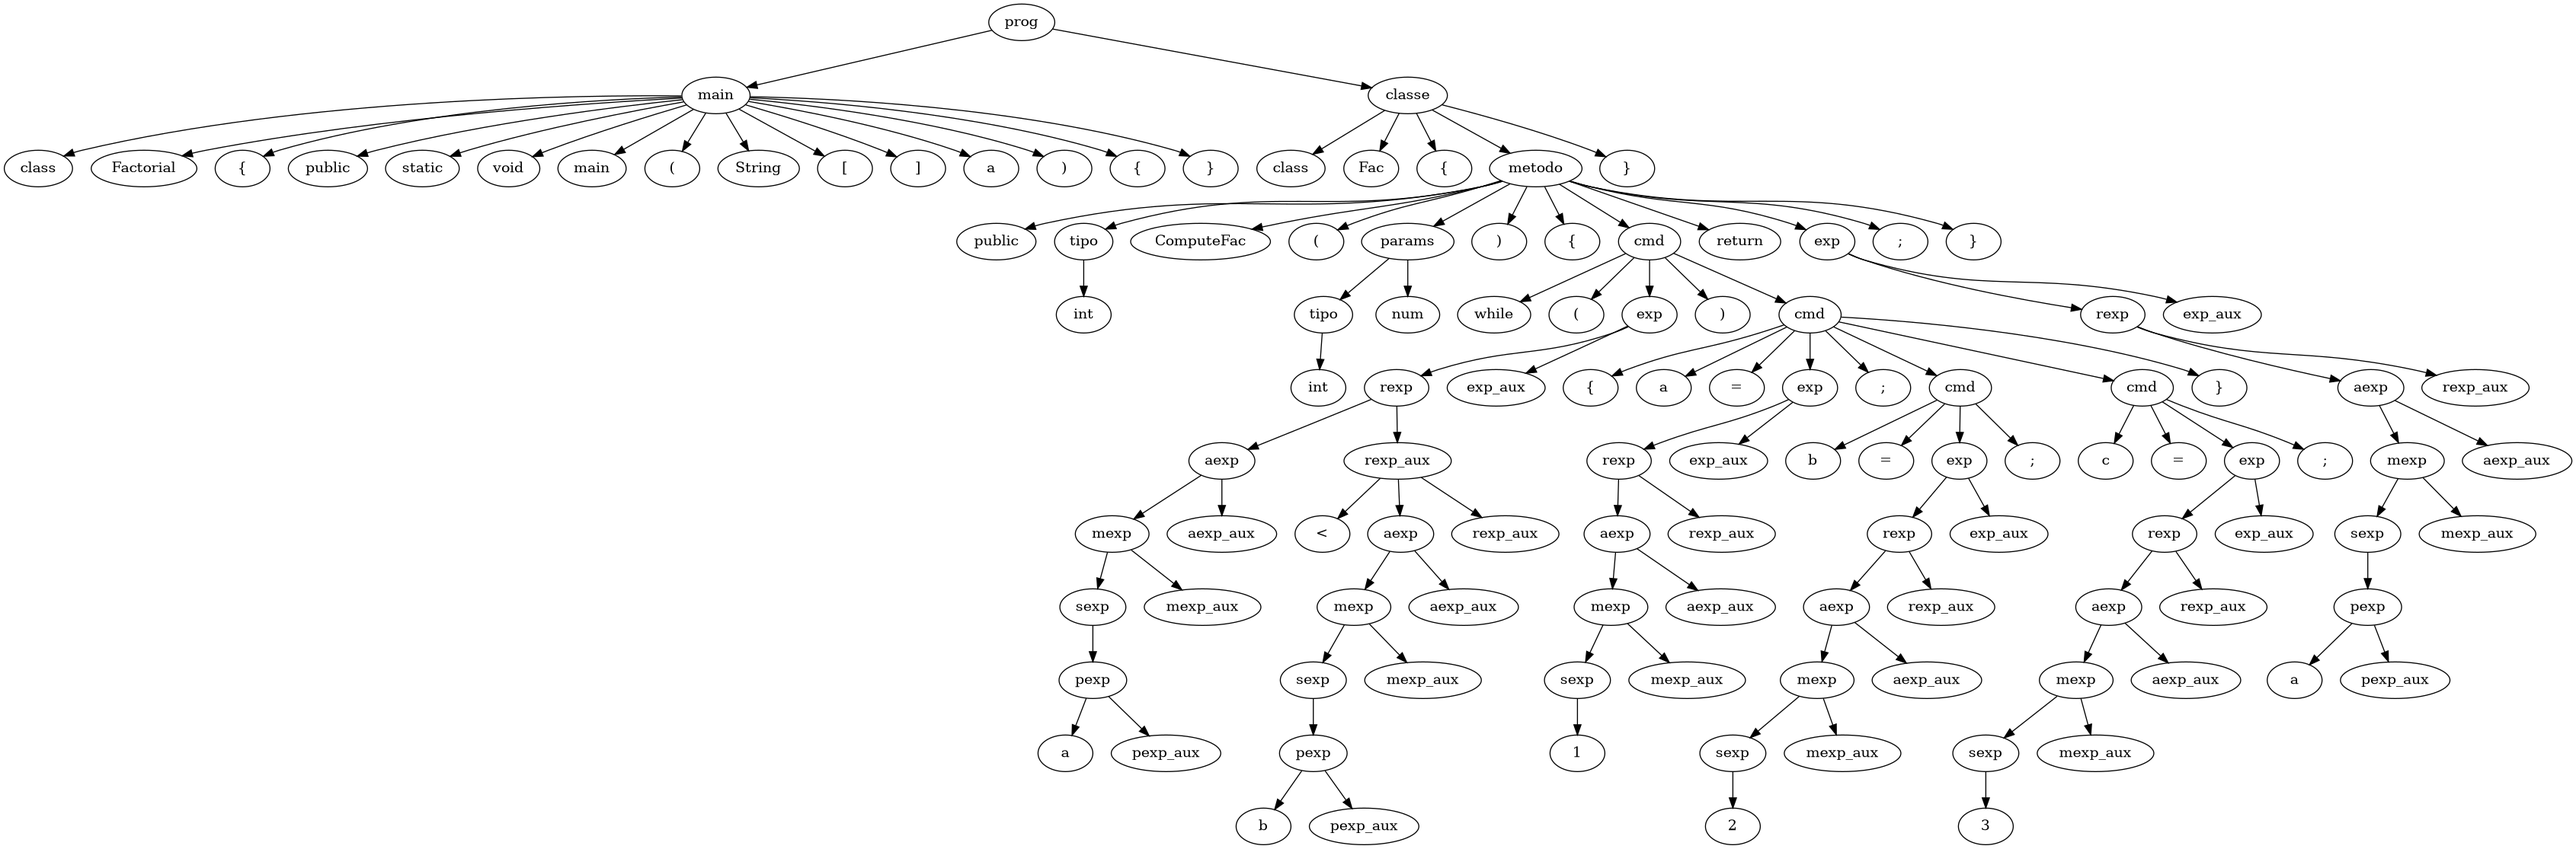
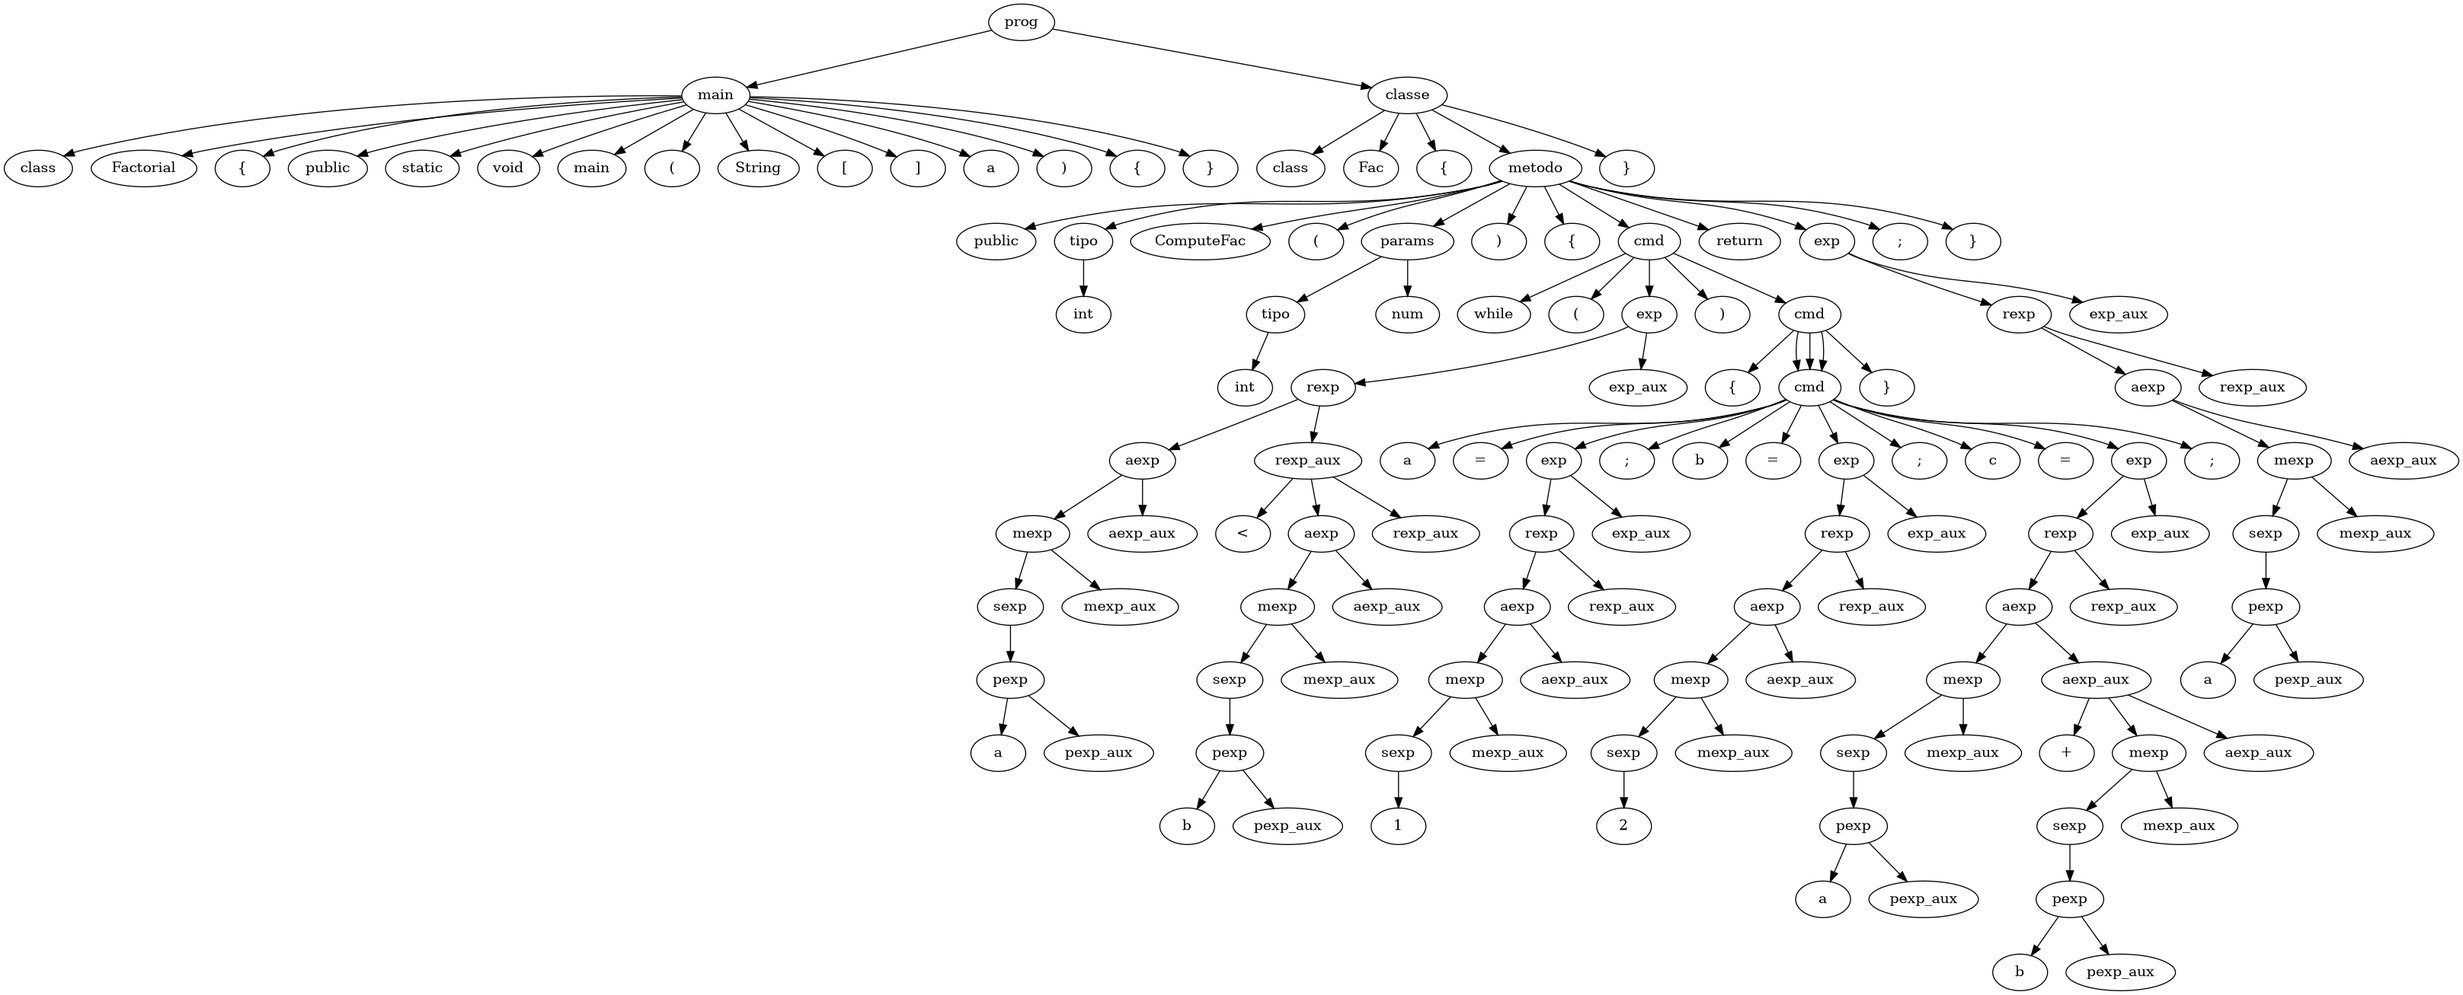
acertando detalhes pt1

diff --git a/classes/parser.py b/classes/parser.py
@@ -411,22 +411,23 @@ class MiniJavaParser:
 
         if token[0] == "del" and token[1] == "{":  # Bloco: '{ CMD }'
             self.expect("del", "{", current_cmd)
+            self.id_cmd += 1
             while self.peek()[1] != "}":
                 self.parse_cmd(current_cmd)
-                self.id_cmd += 1
             self.expect("del", "}", current_cmd)
 
         elif token[0] == "key" and token[1] == "if":  # Condicional: 'if (EXP) CMD else CMD'
             self.expect("key", "if", current_cmd)
             self.expect("del", "(", current_cmd)
             self.parse_exp(current_cmd)
+            self.id_exp += 1
             self.expect("del", ")", current_cmd)
             self.id_cmd += 1
             self.parse_cmd(current_cmd)
             if self.peek() == ("key", "else"):
                 self.expect("key", "else", current_cmd)
-                self.parse_cmd(current_cmd)
                 self.id_cmd += 1
+                self.parse_cmd(current_cmd)
 
         elif token[0] == "key" and token[1] == "while":  # Laço: 'while (EXP) CMD'
             self.expect("key", "while", current_cmd)
@@ -441,6 +442,7 @@ class MiniJavaParser:
             self.expect("key", "System.out.println", current_cmd)
             self.expect("del", "(", current_cmd)
             self.parse_exp(current_cmd)  # Chama o parser de expressão
+            self.id_exp += 1
             self.expect("del", ")", current_cmd)
             self.expect("del", ";", current_cmd)
 

diff --git a/ex1.java b/ex1.java
@@ -8,7 +8,7 @@ class Fac {
         while(a < b){
             a = 1;
             b = 2;
-            c = 3;
+            c = a + b;
         }
         return a;
     }
